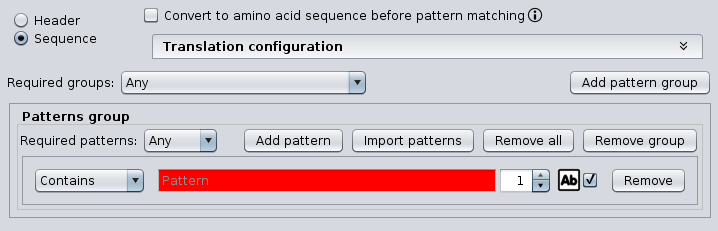
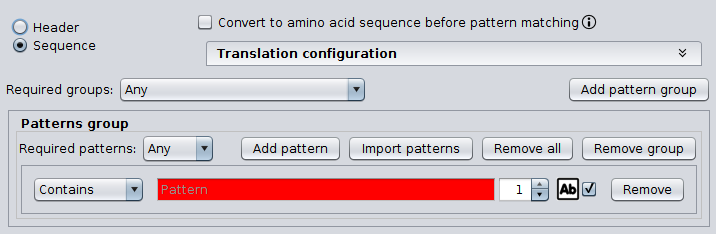
Allows to importing patterns from FASTA files

diff --git a/seda/src/main/java/org/sing_group/seda/gui/pattern/SequencePatternGroupPanel.java b/seda/src/main/java/org/sing_group/seda/gui/pattern/SequencePatternGroupPanel.java
@@ -25,21 +25,30 @@ import static java.awt.BorderLayout.CENTER;
 import static java.awt.BorderLayout.NORTH;
 import static javax.swing.Box.createHorizontalGlue;
 import static javax.swing.Box.createHorizontalStrut;
+import static javax.swing.JOptionPane.DEFAULT_OPTION;
+import static javax.swing.JOptionPane.ERROR_MESSAGE;
+import static javax.swing.JOptionPane.showConfirmDialog;
 
 import java.awt.BorderLayout;
 import java.awt.Component;
+import java.awt.Dimension;
 import java.awt.FlowLayout;
+import java.awt.event.ActionEvent;
 import java.awt.event.ItemEvent;
 import java.io.File;
 import java.io.IOException;
 import java.nio.file.Files;
 import java.util.ArrayList;
 import java.util.List;
+import java.util.Optional;
+import java.util.function.Function;
 import java.util.stream.Collectors;
 
+import javax.swing.AbstractAction;
 import javax.swing.BoxLayout;
 import javax.swing.JButton;
 import javax.swing.JComboBox;
+import javax.swing.JComponent;
 import javax.swing.JFileChooser;
 import javax.swing.JLabel;
 import javax.swing.JOptionPane;
@@ -49,6 +58,11 @@ import javax.swing.SwingUtilities;
 import javax.swing.event.ChangeEvent;
 
 import org.sing_group.gc4s.dialog.JOptionPaneMessage;
+import org.sing_group.gc4s.ui.menu.HamburgerMenu;
+import org.sing_group.gc4s.ui.menu.HamburgerMenu.Size;
+import org.sing_group.seda.datatype.DatatypeFactory;
+import org.sing_group.seda.datatype.Sequence;
+import org.sing_group.seda.datatype.SequencesGroup;
 import org.sing_group.seda.datatype.pattern.EvaluableSequencePattern;
 import org.sing_group.seda.datatype.pattern.EvaluableSequencePattern.GroupMode;
 import org.sing_group.seda.datatype.pattern.SequencePattern;
@@ -59,8 +73,10 @@ import org.sing_group.seda.gui.pattern.PatternEditionEvent.PatternEditionType;
 public class SequencePatternGroupPanel extends JPanel {
   private static final long serialVersionUID = 1L;
 
-  private static final JOptionPaneMessage EDIT_OTHER_PATTERNS_MESSAGE = new JOptionPaneMessage(
-    "Dou you want to set the same value in the rest of patterns of this group?");
+  private static final JOptionPaneMessage EDIT_OTHER_PATTERNS_MESSAGE =
+    new JOptionPaneMessage(
+      "Dou you want to set the same value in the rest of patterns of this group?"
+    );
   private static boolean lastEditOtherPatternsResponse = false;
 
   private SequencePatternGroup initialGroup;
@@ -91,9 +107,10 @@ public class SequencePatternGroupPanel extends JPanel {
     northPanel.add(new JLabel("Required patterns: "));
     northPanel.add(getPatternsModeCombobox());
     northPanel.add(createHorizontalGlue());
+    northPanel.add(createHorizontalStrut(5));
     northPanel.add(getAddPatternButton());
     northPanel.add(createHorizontalStrut(5));
-    northPanel.add(getAddImportPatternsButton());
+    northPanel.add(getImportPatternsMenu());
     northPanel.add(createHorizontalStrut(5));
     northPanel.add(getRemoveAllPatternsButton());
 
@@ -107,11 +124,49 @@ public class SequencePatternGroupPanel extends JPanel {
     return addPattern;
   }
 
-  private JButton getAddImportPatternsButton() {
-    JButton importPatternsList = new JButton("Import patterns");
-    importPatternsList.addActionListener(event -> this.importPatternsList());
+  private JComponent getImportPatternsMenu() {
+    HamburgerMenu menu = new HamburgerMenu(Size.SIZE16);
+    menu.setIcon(null);
+    menu.setText("Import patterns");
+    menu.setMaximumSize(new Dimension(130, 27));
 
-    return importPatternsList;
+    menu.add(new AbstractAction("From plain-text file") {
+      private static final long serialVersionUID = 1L;
+
+      @Override
+      public void actionPerformed(ActionEvent e) {
+        importPatternsList();
+      }
+    });
+
+    menu.add(new AbstractAction("From FASTA file (sequence IDs)") {
+      private static final long serialVersionUID = 1L;
+
+      @Override
+      public void actionPerformed(ActionEvent e) {
+        importSequenceIdentifiersPatterns();
+      }
+    });
+
+    menu.add(new AbstractAction("From FASTA file (headers)") {
+      private static final long serialVersionUID = 1L;
+
+      @Override
+      public void actionPerformed(ActionEvent e) {
+        importSequenceHeadersPatterns();
+      }
+    });
+
+    menu.add(new AbstractAction("From FASTA file (sequences)") {
+      private static final long serialVersionUID = 1L;
+
+      @Override
+      public void actionPerformed(ActionEvent e) {
+        importSequencePatterns();
+      }
+    });
+
+    return menu;
   }
 
   private JButton getRemoveAllPatternsButton() {
@@ -132,7 +187,7 @@ public class SequencePatternGroupPanel extends JPanel {
   }
 
   private void modeComboChanged(ItemEvent event) {
-    if(event.getStateChange() == ItemEvent.SELECTED) {
+    if (event.getStateChange() == ItemEvent.SELECTED) {
       this.notifyPatternEdited(new PatternEditionEvent(this, PatternEditionType.MODE));
     }
   }
@@ -225,42 +280,90 @@ public class SequencePatternGroupPanel extends JPanel {
         this.sequencePatternPanel = new SequencePatternPanel();
         this.sequencePatternPanel.addSequencePatternEditorListener(new SequencePatternEditorAdapter() {
 
-            @Override
-            public void patternEdited(PatternEditionEvent event) {
-              if (!ignorePatternEditionEvents) {
-                notifyPatternEdited(event);
-                SwingUtilities.invokeLater(
-                  () -> {
-                    checkComponentsPatternEvent(event);
-                  }
-                );
-              }
+          @Override
+          public void patternEdited(PatternEditionEvent event) {
+            if (!ignorePatternEditionEvents) {
+              notifyPatternEdited(event);
+              SwingUtilities.invokeLater(
+                () -> {
+                  checkComponentsPatternEvent(event);
+                }
+              );
             }
           }
+        }
         );
       }
       return this.sequencePatternPanel;
     }
   }
 
-  private void importPatternsList() {
+  private Optional<File> getPatternsFile() {
     JFileChooser fileChooser = CommonFileChooser.getInstance().getFilechooser();
     fileChooser.setFileSelectionMode(JFileChooser.FILES_ONLY);
     int option = fileChooser.showSaveDialog(this);
-    if (option == JFileChooser.APPROVE_OPTION) {
-      importPatternsList(fileChooser.getSelectedFile());
-    }
     fileChooser.setFileSelectionMode(JFileChooser.FILES_AND_DIRECTORIES);
+    if (option == JFileChooser.APPROVE_OPTION) {
+      return Optional.of(fileChooser.getSelectedFile());
+    } else {
+      return Optional.empty();
+    }
+  }
+
+  private void importPatternsList() {
+    Optional<File> patternsFile = getPatternsFile();
+    if (patternsFile.isPresent()) {
+      importPatternsList(patternsFile.get());
+    }
   }
 
   private void importPatternsList(File file) {
     try {
       List<String> lines = Files.readAllLines(file.toPath());
-      for(String line : lines) {
+      for (String line : lines) {
         this.addSequencePatternPanelComponent(line);
       }
     } catch (IOException e) {
       e.printStackTrace();
+    }
+  }
+
+  private void importSequencePatterns() {
+    Optional<File> patternsFile = getPatternsFile();
+    if (patternsFile.isPresent()) {
+      importSequencePatterns(patternsFile.get(), Sequence::getChain);
+    }
+  }
+
+  private void importSequenceHeadersPatterns() {
+    Optional<File> patternsFile = getPatternsFile();
+    if (patternsFile.isPresent()) {
+      importSequencePatterns(patternsFile.get(), s -> {
+        return s.getHeader().substring(1);
+      });
+    }
+  }
+
+  private void importSequenceIdentifiersPatterns() {
+    Optional<File> patternsFile = getPatternsFile();
+    if (patternsFile.isPresent()) {
+      importSequencePatterns(patternsFile.get(), Sequence::getName);
+    }
+  }
+
+  private void importSequencePatterns(File file, Function<Sequence, String> sequenceMapper) {
+    try {
+      SequencesGroup sequencesGroup =
+        DatatypeFactory.getDefaultDatatypeFactory().newSequencesGroup(file.toPath());
+
+      sequencesGroup.getSequences().map(sequenceMapper::apply).forEach(s -> {
+        addSequencePatternPanelComponent(s);
+      });
+
+    } catch (RuntimeException e) {
+      showConfirmDialog(
+        this, "The selected file can't be read as FASTA format.", "Error", DEFAULT_OPTION, ERROR_MESSAGE
+      );
     }
   }
 
@@ -289,12 +392,13 @@ public class SequencePatternGroupPanel extends JPanel {
 
       if (EDIT_OTHER_PATTERNS_MESSAGE.shouldBeShown()) {
 
-        int n = JOptionPane.showConfirmDialog(
-          SwingUtilities.getRootPane(this),
-          EDIT_OTHER_PATTERNS_MESSAGE.getMessage(),
-          "Edit other patterns?",
-          JOptionPane.YES_NO_OPTION
-        );
+        int n =
+          JOptionPane.showConfirmDialog(
+            SwingUtilities.getRootPane(this),
+            EDIT_OTHER_PATTERNS_MESSAGE.getMessage(),
+            "Edit other patterns?",
+            JOptionPane.YES_NO_OPTION
+          );
 
         if (n == JOptionPane.YES_OPTION) {
           lastEditOtherPatternsResponse = true;
@@ -338,13 +442,13 @@ public class SequencePatternGroupPanel extends JPanel {
   private void setOtherPanelsCaseSensitiveFrom(SequencePatternPanel sourcePanel) {
     boolean caseSensitive = sourcePanel.getSequencePattern().isCaseSensitive();
     this.sequencePatternComponents.stream()
-    .map(SequencePatternPanelComponent::getSequencePatternPanel)
-    .filter(panel -> !panel.equals(sourcePanel))
-    .forEach(
-      p -> {
-        p.setCaseSensitive(caseSensitive);
-      }
-    );
+      .map(SequencePatternPanelComponent::getSequencePatternPanel)
+      .filter(panel -> !panel.equals(sourcePanel))
+      .forEach(
+        p -> {
+          p.setCaseSensitive(caseSensitive);
+        }
+      );
   }
 
   private void setOtherPanelsRequiredMatchesFrom(SequencePatternPanel sourcePanel) {

diff --git a/seda-docs/source/advanced.rst b/seda-docs/source/advanced.rst
@@ -15,7 +15,12 @@ For each pattern group, at least one pattern is required. If more than one patte
 
 If more than one pattern group is introduced (by clicking the *‘Add pattern group’* button), the *‘Required groups‘* option allows specifying how groups must be combined: *‘All’* means that all groups must be present and *’Any’* means that only one group must be present to consider that the pattern is present.
 
-In addition, the *‘Import patterns’* button allows to import a set of patterns from a plain text file: each line is added as a pattern to the selected pattern group.
+In addition, the *‘Import patterns’* button shows different options allowing to import a set of patterns from:
+
+- Plain-text file: each line is added as a pattern to the selected pattern group.
+- FASTA file (sequence IDs): each sequence identifier found in the FASTA file is added as a pattern to the selected pattern group.
+- FASTA file (headers): each sequence header found in the FASTA file is added as a pattern to the selected pattern group.
+- FASTA file (sequences): each sequence found in the FASTA file is added as a pattern to the selected pattern group.
 
 For instance, imagine that you have the following four patterns:
 
